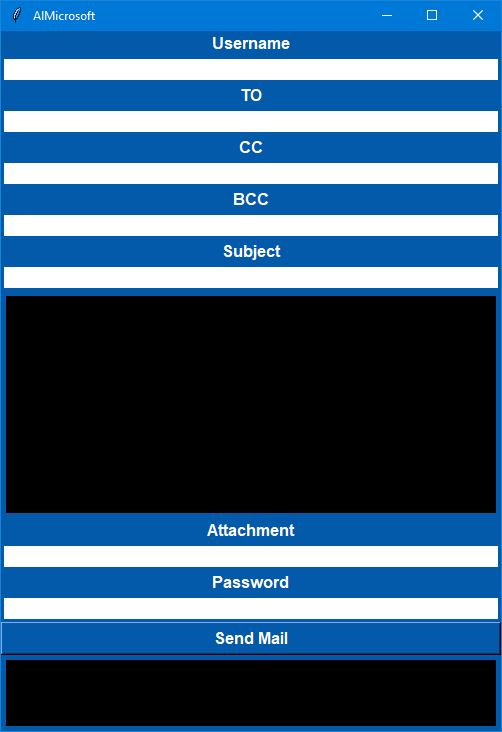
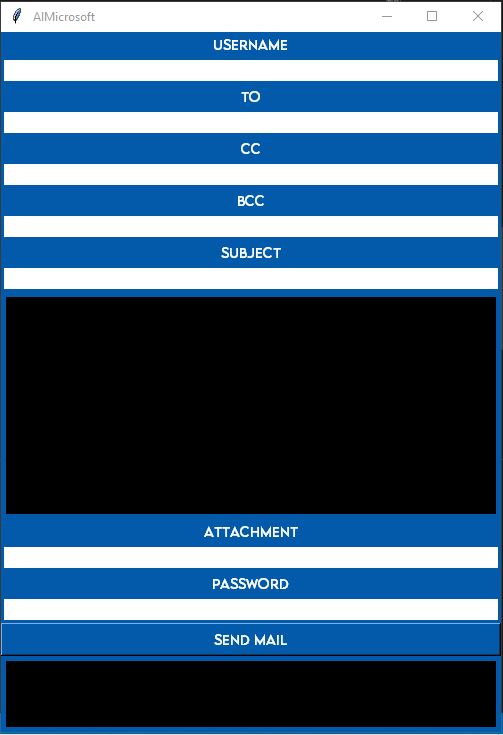
AlMail

diff --git a/AlMail.py b/AlMail.py
@@ -95,38 +95,39 @@ class AlMail:
             finally:
                 server.quit()
         appHighlightFont = font.Font(family='sans-serif', size=12, weight='bold')
+        textHighlightFont = font.Font(family='LEMON MILK', size=10)
         #user mail
         userEmail = Label(root, text="Username")
         userEmail.pack()
-        userEmail.config(bg=color,fg="white",font=appHighlightFont)
+        userEmail.config(bg=color,fg="white",font=textHighlightFont)
         userEmail = Entry(root, highlightbackground=color, highlightcolor=color, highlightthickness=3, bd=0,font=appHighlightFont)
         userEmail.pack(fill=X)
 
         #to email
         toEmail = Label(root, text="TO")
         toEmail.pack( )
-        toEmail.config(bg=color,fg="white",font=appHighlightFont)
+        toEmail.config(bg=color,fg="white",font=textHighlightFont)
         toEmail = Entry(root, highlightbackground=color, highlightcolor=color, highlightthickness=3, bd=0,font=appHighlightFont)
         toEmail.pack(fill=X)
 
         #cc email
         ccEmail = Label(root, text="CC")
         ccEmail.pack( )
-        ccEmail.config(bg=color,fg="white",font=appHighlightFont)
+        ccEmail.config(bg=color,fg="white",font=textHighlightFont)
         ccEmail = Entry(root, highlightbackground=color, highlightcolor=color, highlightthickness=3, bd=0,font=appHighlightFont)
         ccEmail.pack(fill=X)
 
         #bcc email
         bccEmail = Label(root, text="BCC")
         bccEmail.pack( )
-        bccEmail.config(bg=color,fg="white",font=appHighlightFont)
+        bccEmail.config(bg=color,fg="white",font=textHighlightFont)
         bccEmail = Entry(root, highlightbackground=color, highlightcolor=color, highlightthickness=3, bd=0,font=appHighlightFont)
         bccEmail.pack(fill=X)
 
         #subject line
         subj= Label(root, text="Subject")
         subj.pack( )
-        subj.config(bg=color,fg="white",font=appHighlightFont)
+        subj.config(bg=color,fg="white",font=textHighlightFont)
         subj = Entry(root, highlightbackground=color, highlightcolor=color, highlightthickness=3, bd=0,font=appHighlightFont)
         subj.pack(fill=X)
 
@@ -138,20 +139,20 @@ class AlMail:
         #Attachments to send
         fileName = Label(root, text="Attachment")
         fileName.pack( )
-        fileName.config(bg=color,fg="white",font=appHighlightFont)
+        fileName.config(bg=color,fg="white",font=textHighlightFont)
         fileName = Entry(root, highlightbackground=color, highlightcolor=color, highlightthickness=3, bd=0,font=appHighlightFont)
         fileName.pack(fill=X)
 
         #passWord widget
         passWord = Label(root, text="Password")
         passWord.pack()
-        passWord.config(bg=color,fg="white",font=appHighlightFont)
+        passWord.config(bg=color,fg="white",font=textHighlightFont)
         passWord= Entry(root, show='*', highlightbackground=color, highlightcolor=color, highlightthickness=3, bd=0,font=appHighlightFont)
         passWord.pack(fill=X)
 
         #submit button
         submitMail = Button(root, text="Send Mail",  command=sendemail)
-        submitMail.config(bg=color,fg="white",font=appHighlightFont)
+        submitMail.config(bg=color,fg="white",font=textHighlightFont)
         submitMail.pack(fill=X)
 
         #feed back
@@ -162,4 +163,4 @@ class AlMail:
         root.mainloop()
 
 if __name__=='__main__':
-    AlMail(inputMail) #'outlook' or 'gmail'
+    AlMail('gmail') #'outlook' or 'gmail'
